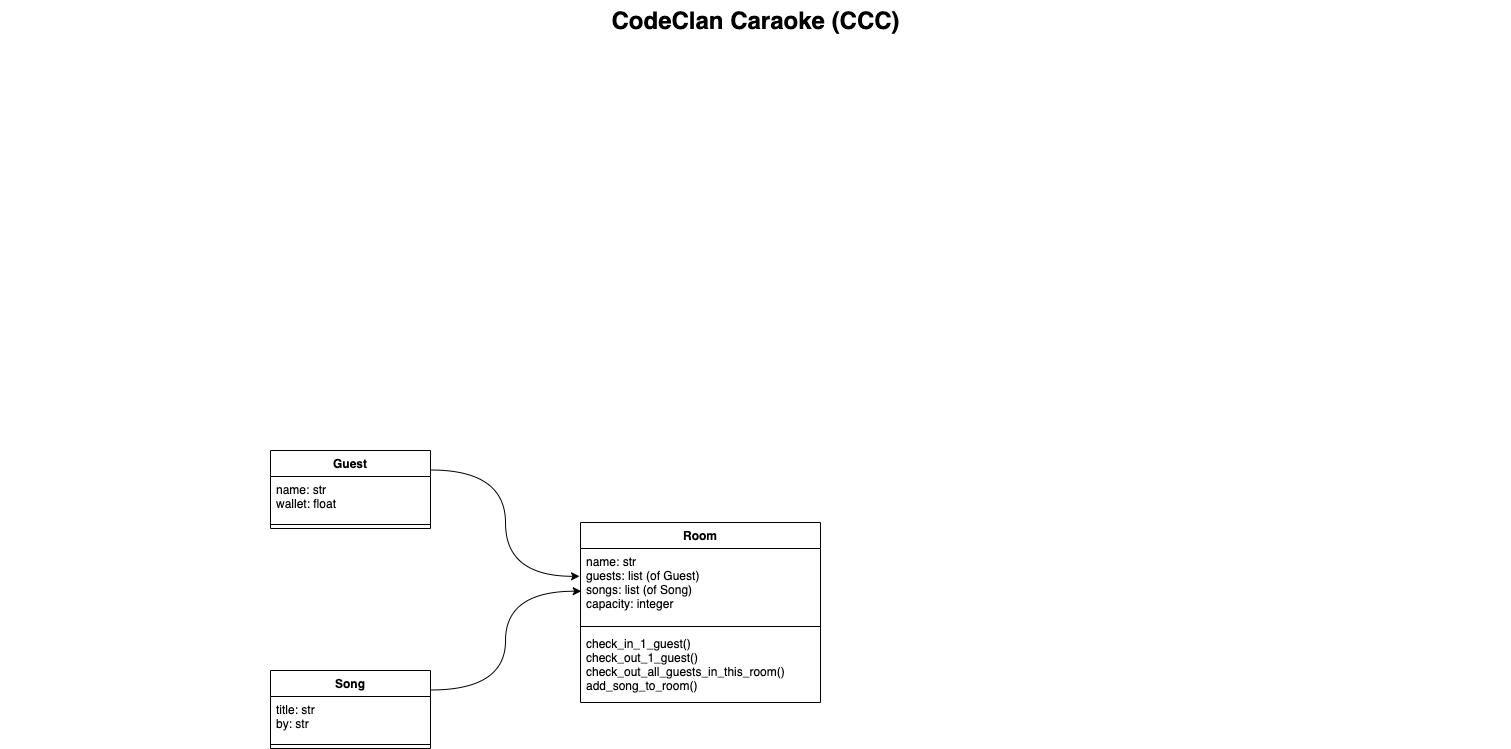
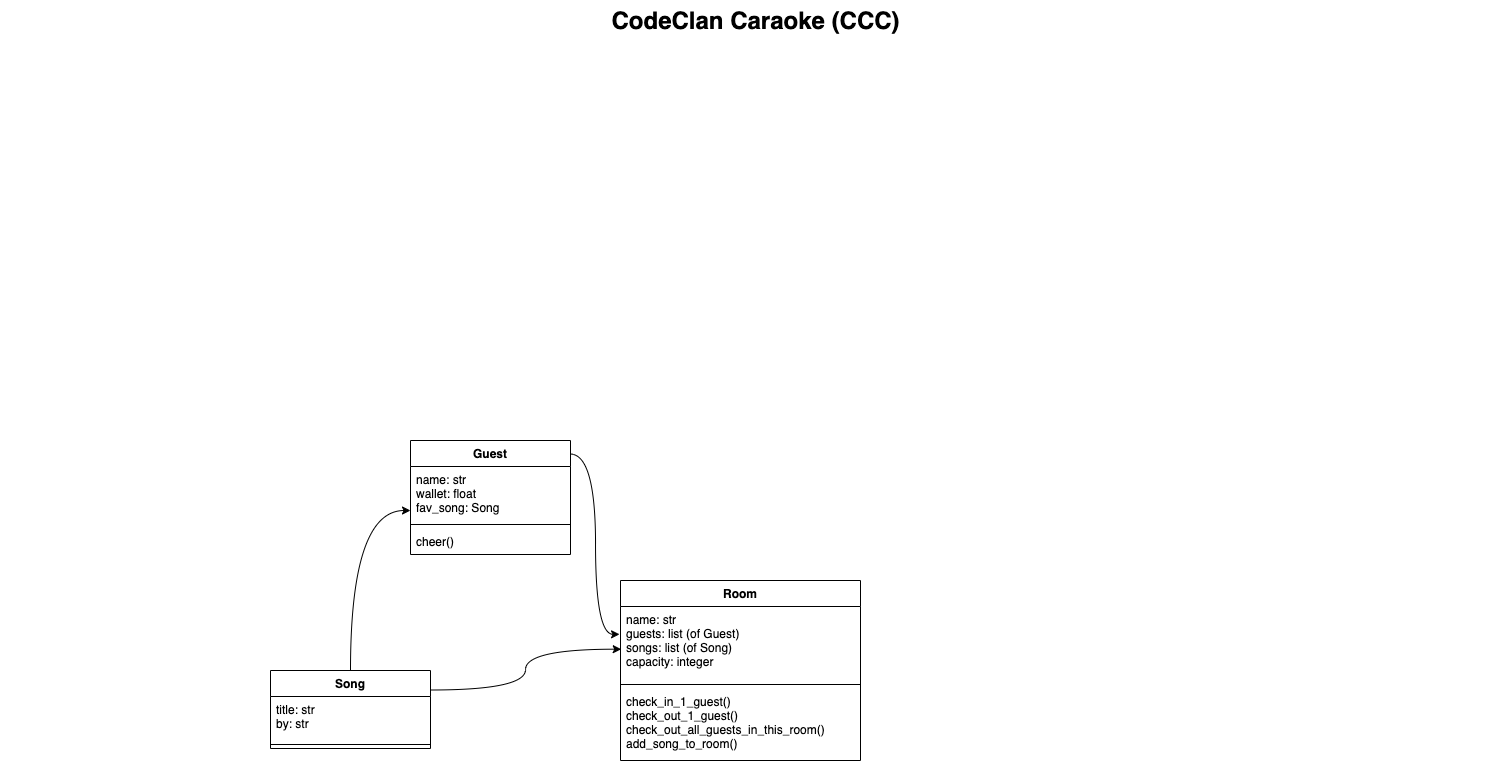
* Amends diagram CCC.png to add attribute “fav_song” to class Guest * In guest.py adds attribute “fav_song” to Guest * In guest_test.py:
- from song.py imports Song
- adds song objects song1 to song11 in SetUp
- adds values to “fav_song” attributes in objects guest 1 to 11 * In room_test.py: adds values to “fav_song” attributes in objects guest 1 to 11

diff --git a/codeclan_caraoke/tests/guest_test.py b/codeclan_caraoke/tests/guest_test.py
@@ -1,22 +1,70 @@
 import unittest
 from src.guest import Guest
+from src.song import Song
 
 # Declaration of values to be used for tests
 guests = ["Mike", "Tom", "Susan", "Kate", "David", "Alex", "Robert", "Zoe", "Louise", "George", "Heather"]
 
+songs = [
+    { # song 1
+        "title" : "Five Years", 
+        "by" : "David Bowie"
+    },
+    { # song 2
+        "title" : "Kill the poor",
+        "by" : "Dead Kennedys"
+    },
+    { # song 3
+        "title" : "Sea and Sand",
+        "by" : "Nicola Conte"
+    },
+    { # song 4
+        "title" : "Águas de Março",
+        "by" : "Tom Jobim"
+    },
+    { # song 5
+        "title" : "Just like heaven",
+        "by" : "The Cure"
+    },
+    { # song 6
+        "title" : "Hells Bells",
+        "by" : "AC/DC"
+    },
+    { # song 7
+        "title" : "Paparazzi",
+        "by" : "Lady Gaga"
+    },
+    { # song 8
+        "title" : "Just like heaven",
+        "by" : "Katie Melua"
+    }
+    
+]
+
+
+
 class TestGuest(unittest.TestCase):
     def setUp(self):
-        self.guest1 = Guest(guests[0], 10)
-        self.guest2 = Guest(guests[1], 20)
-        self.guest3 = Guest(guests[2], 15)
-        self.guest4 = Guest(guests[3], 50)
-        self.guest5 = Guest(guests[4], 5)
-        self.guest6 = Guest(guests[5], 25)
-        self.guest7 = Guest(guests[6], 33)
-        self.guest8 = Guest(guests[7], 12)
-        self.guest9 = Guest(guests[8], 27)
-        self.guest10 = Guest(guests[9], 100)
-        self.guest11 = Guest(guests[10], 18)
+        self.song1 = Song(songs[0]["title"], songs[0]["by"])
+        self.song2 = Song(songs[1]["title"], songs[1]["by"])
+        self.song3 = Song(songs[2]["title"], songs[2]["by"])
+        self.song4 = Song(songs[3]["title"], songs[3]["by"])
+        self.song5 = Song(songs[4]["title"], songs[4]["by"])
+        self.song6 = Song(songs[5]["title"], songs[5]["by"])
+        self.song7 = Song(songs[6]["title"], songs[6]["by"])
+        self.song8 = Song(songs[7]["title"], songs[7]["by"])
+        
+        self.guest1 = Guest(guests[0], 10, self.song1)
+        self.guest2 = Guest(guests[1], 20, self.song6)
+        self.guest3 = Guest(guests[2], 15, self.song8)
+        self.guest4 = Guest(guests[3], 50, self.song3)
+        self.guest5 = Guest(guests[4], 5, self.song2)
+        self.guest6 = Guest(guests[5], 25, self.song7)
+        self.guest7 = Guest(guests[6], 33, self.song4)
+        self.guest8 = Guest(guests[7], 12, self.song1)
+        self.guest9 = Guest(guests[8], 27, self.song5)
+        self.guest10 = Guest(guests[9], 100, self.song6)
+        self.guest11 = Guest(guests[10], 18, self.song2)
 
     def test_guest_has_name(self):
         self.assertEqual(self.guest1.name, guests[0])

diff --git a/codeclan_caraoke/tests/room_test.py b/codeclan_caraoke/tests/room_test.py
@@ -57,17 +57,17 @@ class TestRoom(unittest.TestCase):
         self.songlist1 = [self.song1, self.song2, self.song3, self.song4, self.song5]
         self.songlist2 = [self.song6, self.song7, self.song8]
 
-        self.guest1 = Guest(guests[0], 10)
-        self.guest2 = Guest(guests[1], 20)
-        self.guest3 = Guest(guests[2], 15)
-        self.guest4 = Guest(guests[3], 50)
-        self.guest5 = Guest(guests[4], 5)
-        self.guest6 = Guest(guests[5], 25)
-        self.guest7 = Guest(guests[6], 33)
-        self.guest8 = Guest(guests[7], 12)
-        self.guest9 = Guest(guests[8], 27)
-        self.guest10 = Guest(guests[9], 100)
-        self.guest11 = Guest(guests[10], 18)
+        self.guest1 = Guest(guests[0], 10, self.song1)
+        self.guest2 = Guest(guests[1], 20, self.song6)
+        self.guest3 = Guest(guests[2], 15, self.song8)
+        self.guest4 = Guest(guests[3], 50, self.song3)
+        self.guest5 = Guest(guests[4], 5, self.song2)
+        self.guest6 = Guest(guests[5], 25, self.song7)
+        self.guest7 = Guest(guests[6], 33, self.song4)
+        self.guest8 = Guest(guests[7], 12, self.song1)
+        self.guest9 = Guest(guests[8], 27, self.song5)
+        self.guest10 = Guest(guests[9], 100, self.song6)
+        self.guest11 = Guest(guests[10], 18, self.song2)
 
         self.guestlist1 = [self.guest1, self.guest2, self.guest3, self.guest4, self.guest5]
         self.guestlist2 = [self.guest6, self.guest7, self.guest8]

diff --git a/codeclan_caraoke/src/guest.py b/codeclan_caraoke/src/guest.py
@@ -1,4 +1,5 @@
 class Guest:
-    def __init__(self, name, wallet):
+    def __init__(self, name, wallet, fav_song):
         self.name = name
         self.wallet = wallet
+        self.fav_song = fav_song
